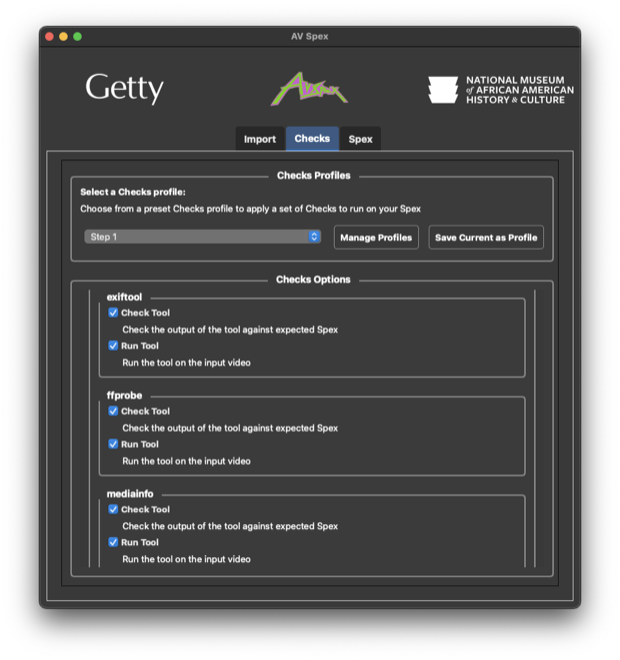
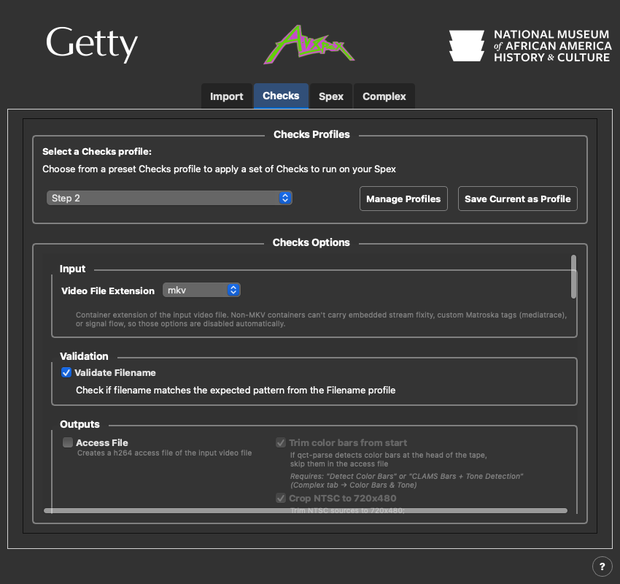
updating screenshots in gui help window as well as updating a few stale references to old frame analysis behavior (clams detection)

diff --git a/src/AV_Spex/config/help/avspex_help.md b/src/AV_Spex/config/help/avspex_help.md
@@ -116,6 +116,12 @@ The GUI has four tabs: **Import**, **Checks**, **Spex**, and **Complex**
 
 The Import tab is where you select input directories for processing and manage configuration files. It includes options to import, export, or reset the Checks and Spex configurations as JSON files.
 
+**Import Directory...** adds a directory to the *Selected Directories* list; add as many as you like to process a batch, and use **Delete Selected** to remove one. This tab also holds the buttons that start a run, so it is where you end up after configuring the other tabs:
+
+- **Check Spex!** — process every directory in the list with your current settings
+- **Dry Run** — apply your configuration changes and report what would happen, without running any tools on the video files
+- **Show Processing Window** — reopen the processing console for the current or most recent run
+
 ![The Import tab](import_tab_example.png)
 
 #### Import and Export Config
@@ -143,9 +149,18 @@ The Checks tab controls which tools and processing steps are run. It includes:
   - **Step 2**: Run QCTools and qct-parse (bar detection, evaluate bars, thumbnail export, audio analysis, clamped levels, chroma phase errors) plus CLAMS bars/tone detection and frame analysis (bitplane check, border detection, BRNG, signalstats); check fixity and validate stream fixity; generate the HTML report
   - **Vendor**: Run the metadata tools and MediaConch without comparing them against Spex values, embed stream fixity, and generate the HTML report — for checking vendor-supplied files before the full QC pass
   - **Off**: Turn off all tools
-- **Checks Options**: Enable or disable individual tools and checks using checkboxes. Each tool has a **Run Tool** option (generates a sidecar file) and a **Check Tool** option (compares the sidecar output against expected Spex values).
 
-Click **Check Spex!** to start processing.
+  **Manage Profiles** opens a dialog listing your saved checks profiles, with buttons to create, edit, delete, and apply them. **Save Current as Profile** stores whatever the checkboxes currently say as a new named profile of your own.
+- **Checks Options**: The individual settings, grouped by what they affect. Every checkbox carries its description inline, so nothing is hidden behind a tooltip:
+  - **Input** — **Video File Extension**, the container AV Spex looks for in each input directory. Choosing a non-MKV container automatically disables the options that only work on Matroska: embedded stream fixity, the mediatrace custom-tag check, and the signal flow check
+  - **Validation** — **Validate Filename**, checking the input filename against the active Filename profile
+  - **Outputs** — the access copy with its sub-options, and the HTML report. Sub-options that depend on another setting say so on a *Requires:* line and stay grayed out until that setting is on (the QCTools file extension lives on the Complex tab, with the rest of the QCTools settings)
+  - **Fixity** — the whole-file and embedded stream fixity steps, each with its own hash algorithm dropdown (`md5` or `sha256`)
+  - **Tools** — one box per metadata tool (ExifTool, FFprobe, MediaInfo, MediaTrace, mkvalidator), each with a **Run Tool** option (generates the sidecar file) and a **Check Tool** option (compares that sidecar against the expected Spex values). MediaConch has its own box, showing the active policy in a dropdown with buttons to import a new policy XML or export the current one
+
+The heavier analysis steps are not on this tab — they live on the Complex tab, described below.
+
+When your selections are set, go to the **Import** tab and click **Check Spex!** to start processing, or **Dry Run** to apply your configuration changes without processing any files.
 
 ![The Checks tab](checks_tab_example.png)
 
@@ -198,7 +213,7 @@ Checks marked "via qct-parse" read the QCTools report through the qct-parse tool
 
 ![The Complex tab](complex_tab_example.png)
 
-Once your Spex selections are complete, navigate to the Checks tab and click **Check Spex!**.
+Once your selections are complete, return to the Import tab and click **Check Spex!**.
 
 ---
 
@@ -309,7 +324,14 @@ Available when Detect Color Bars is on. Exports thumbnail images of frames that 
 
 **Fragment merging**: A continuous span can dip below threshold briefly and be reported as several adjacent fragments; fragments separated by less than the configured merge gap (1 s for bars, 5 s for tone) are coalesced back into a single span.
 
-**How the results are used**: CLAMS runs before qct-parse, and all detected bars and tone regions are passed to qct-parse, which runs additional windowed bars scans over them beyond the head of the tape. The head color-bars end time that drives the BRNG-skip window and the access-file trim is then merged from both detectors: when CLAMS's primary bars detection starts within the first 10 seconds of the file, the later of the two end times (qct-parse or CLAMS) wins — and if only one detector found head bars, its end time is used on its own. Only primary-pass CLAMS detections participate in this merge; mid-file bars are report-only.
+**How the results are used**: CLAMS runs before qct-parse, and all detected bars and tone regions are passed to qct-parse, which runs additional windowed bars scans over them beyond the head of the tape. The head color-bars end time that drives the BRNG-skip window and the access-file trim is then decided by a consensus between the two detectors. A bars span counts as *head* bars only if it starts within the first 30 seconds of the file, and only primary-pass CLAMS detections take part — mid-file bars are report-only. From there:
+
+- **Both detectors found head bars and agree** (their end times are within 3 seconds of each other) — the later end time wins.
+- **Both found head bars but disagree** — the disputed span between the two end times is re-checked with CLAMS's SSIM comparison. If that span isn't bars, the earlier end time wins; otherwise the later one does. This arbitration exists because qct-parse works from luma statistics, which can't distinguish color bars from a bright, saturated slate.
+- **Only qct-parse found head bars** — if CLAMS ran and its SSIM scan of that same region says the region is not bars, the claim is *demoted*: no head-bars end time is set at all, so nothing is trimmed from the access file and no analysis window is skipped. A false trim removes real program content, so an uncorroborated claim is discarded rather than trusted.
+- **Only CLAMS found head bars** — its end time is used.
+
+Separately from that single end time, the full set of bars spans found by *either* detector is excluded from BRNG, signalstats, and duplicate-frame analysis, and from the qct-parse color bars evaluation. Over-excluding there is cheap, while analyzing bars as if they were program content skews the results. The access-file trim and chroma phase detection intentionally use only the head end time.
 
 Numeric tuning of the CLAMS parameters (SSIM threshold, sample ratio, minimum durations, etc.) is JSON-only — only the on/off toggle is exposed in the GUI and CLI. Edit the saved `last_used_checks_config.json` directly if you need to adjust those.
 
